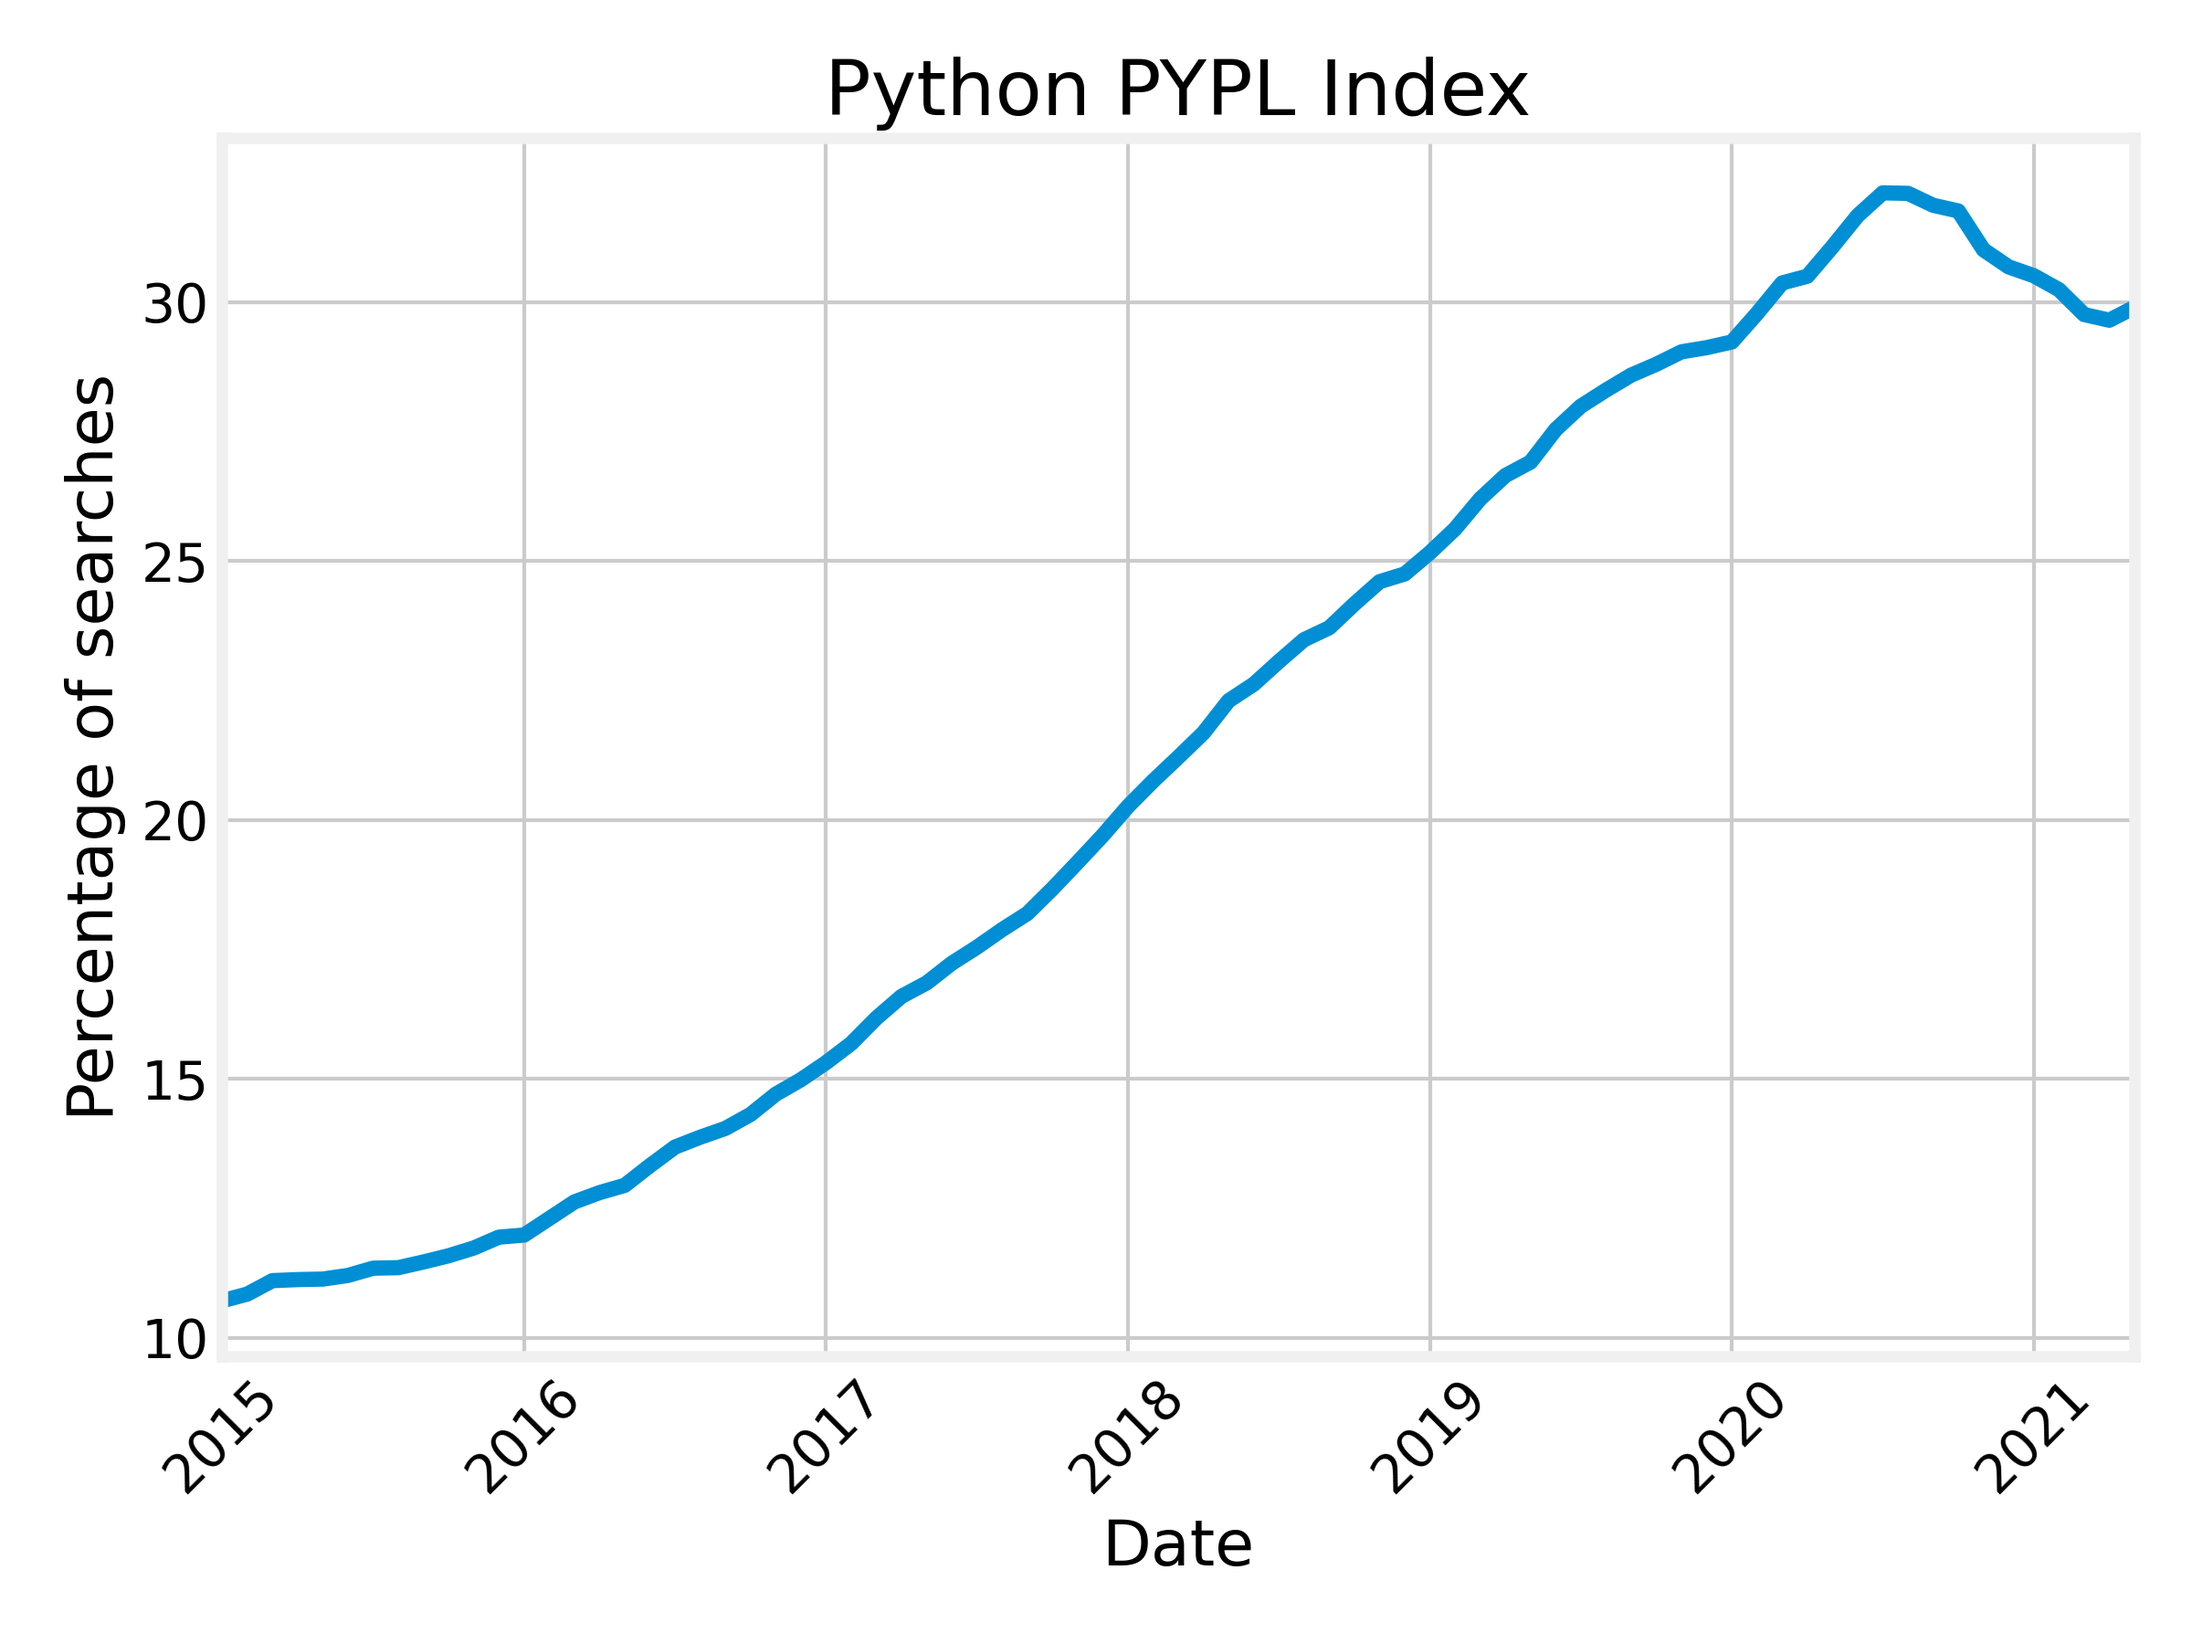
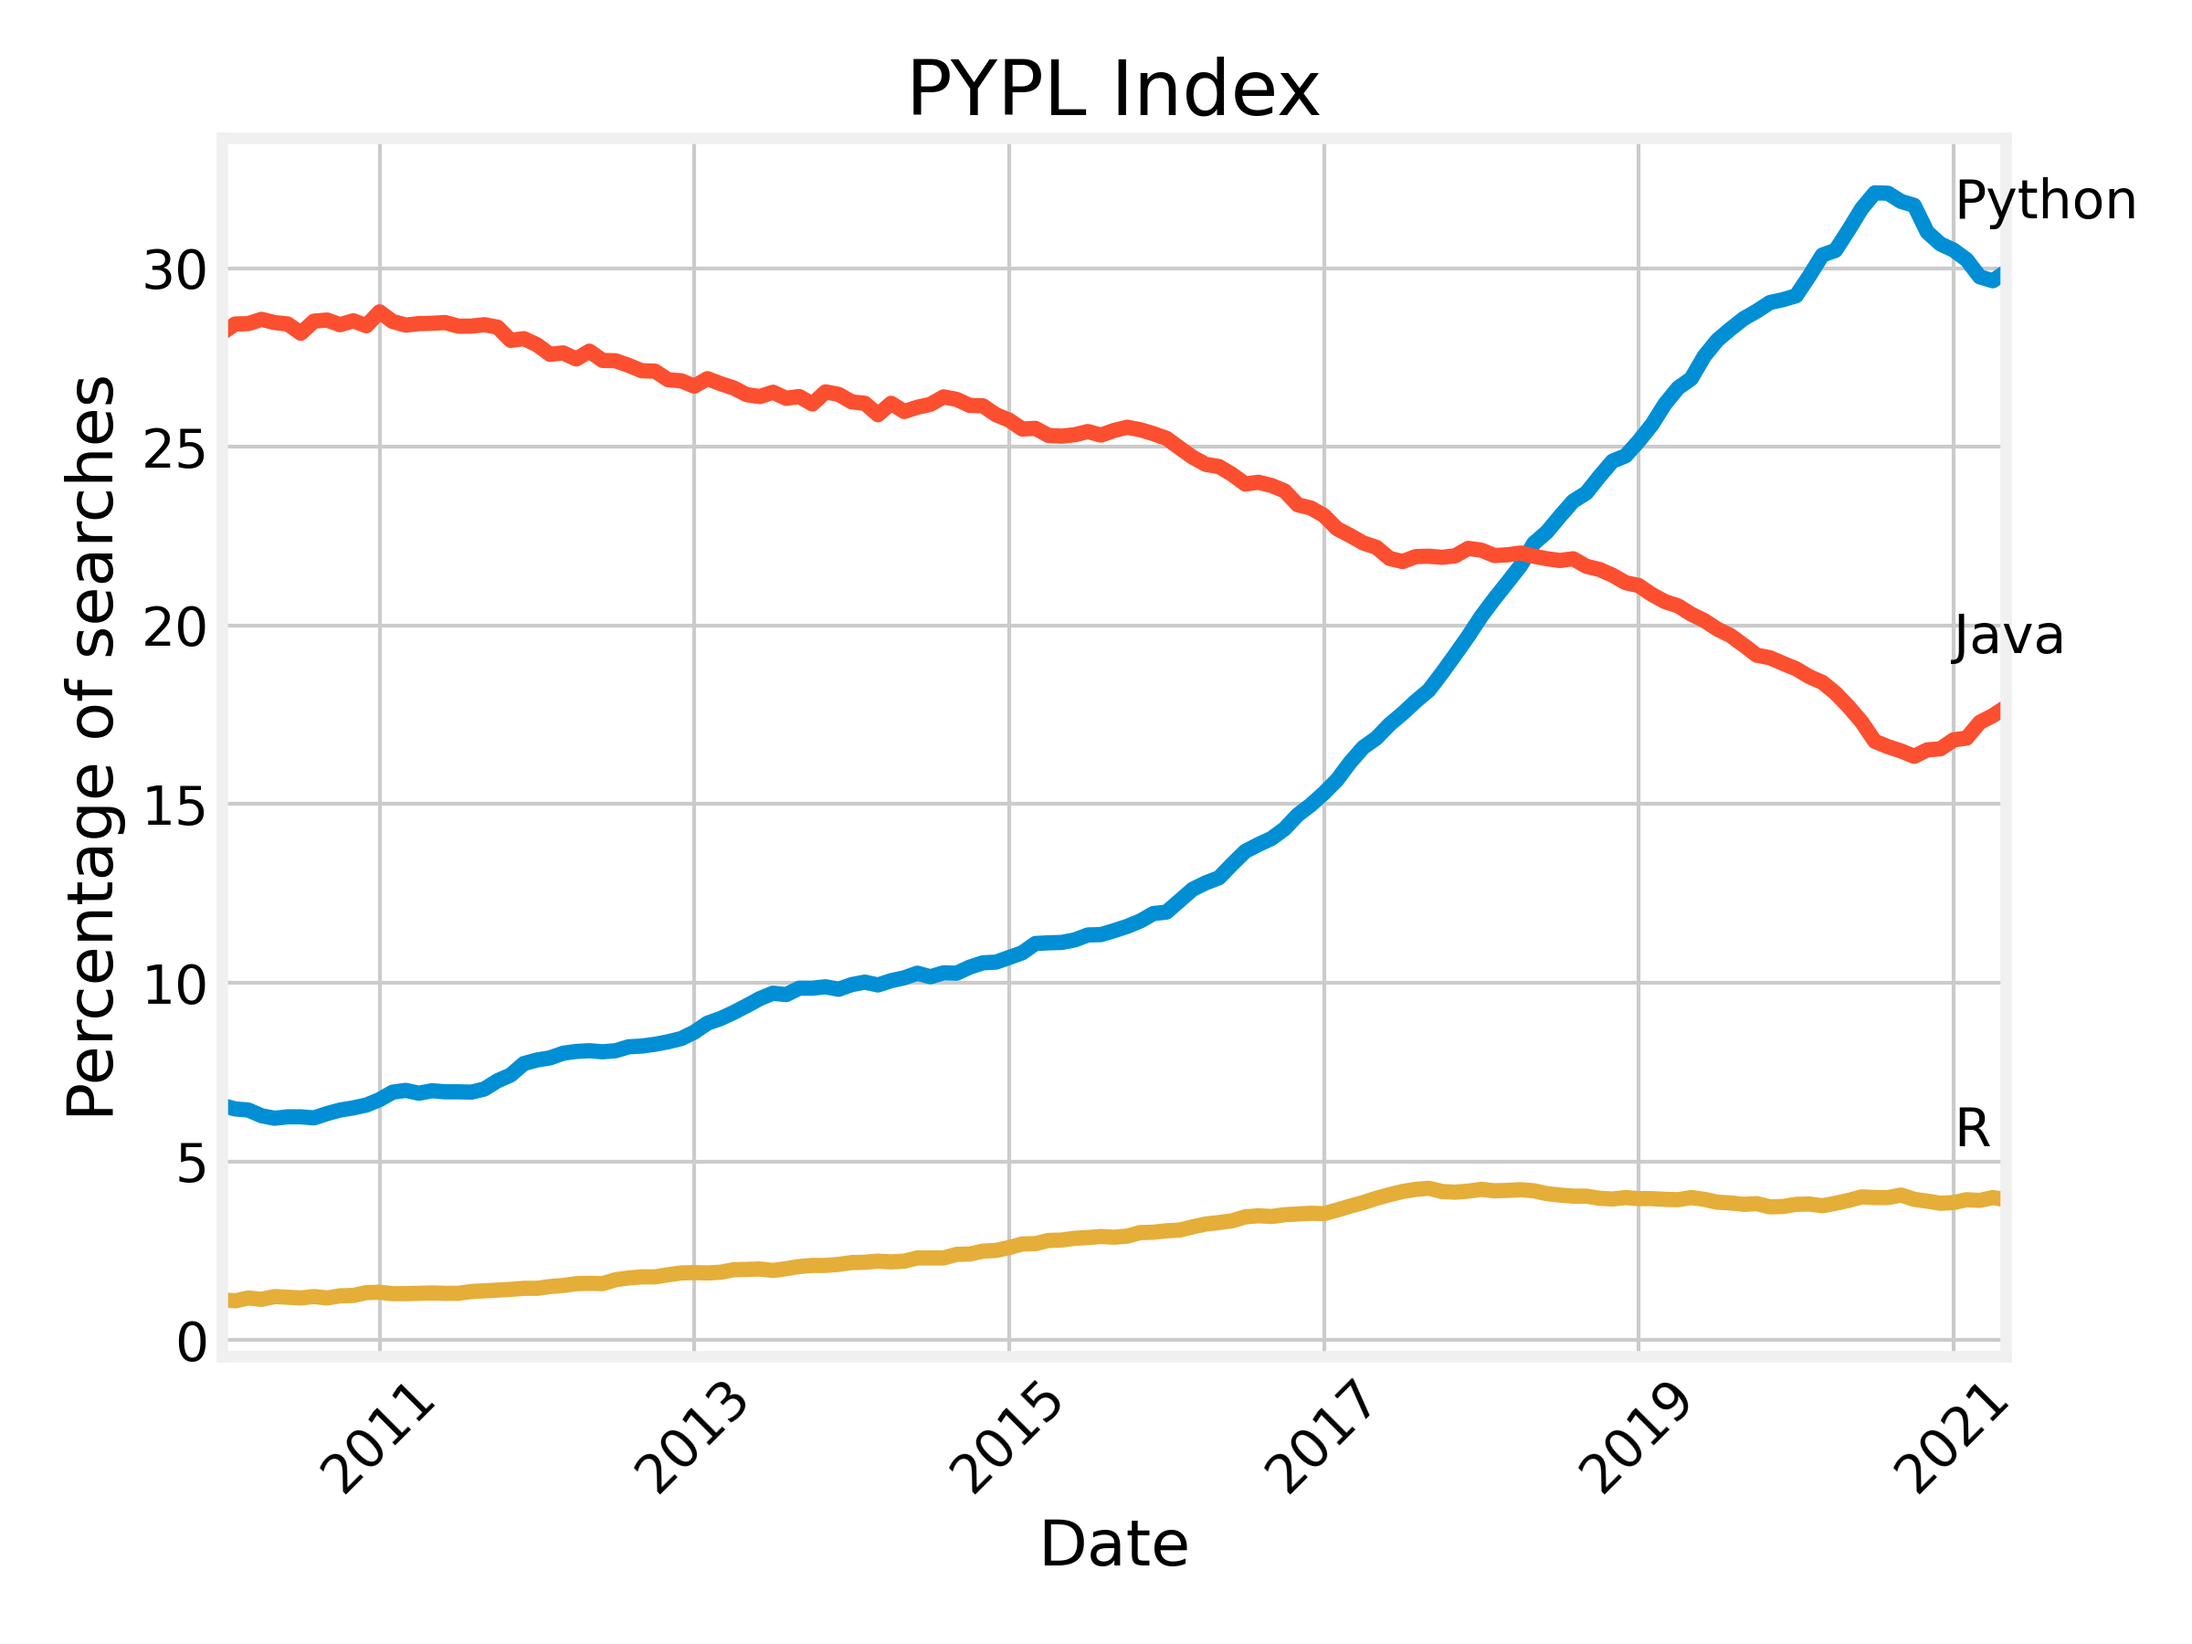
Updated plot annotations

diff --git a/src/1b_pypl.py b/src/1b_pypl.py
@@ -24,11 +24,22 @@ prog_pop = pd.read_csv(f"{DATA_DIR}/pl_pop.zip",
                        parse_dates=True,
                        index_col=0)
 
-ax = prog_pop.loc["2015":, "Python"].plot(title="Python PYPL Index", figsize=(8,6), rot=45)
+prog_pop.iloc[-1, :].sort_values(ascending=False)
+
+ax = prog_pop.loc["2010":, ["Python", "Java", "R"]].plot(title="PYPL Index", 
+                                                         figsize=(8,6), 
+                                                         rot=45,
+                                                         legend=False)
 ax.set_ylabel("Percentage of searches")
 
+py_loc = prog_pop.iloc[-1, :]["Python"]
+java_loc = prog_pop.iloc[-1, :]["Java"]
+r_loc = prog_pop.iloc[-1, :]["R"]
+ax.text("2021", py_loc+1.5, "Python")
+ax.text("2021", java_loc+1.5, "Java")
+ax.text("2021", r_loc+1.5, "R")
+
+# ax.text("2011-06-01", r_loc-15, "Repository created")
 
 plt.tight_layout()
 plt.savefig(f"{FIG_DIR}/PYPL_trend.png", dpi=300)
-
-

diff --git a/src/2_github_interest.py b/src/2_github_interest.py
@@ -23,7 +23,7 @@ yearly_count.loc[2010, "Count"] = 0.0
 yearly_count.loc[2011, "Count"] = 0.0
 yearly_count.sort_index(inplace=True)
 
-ax = yearly_count.loc[:2013].plot(legend=False, alpha=0.5, figsize=(8,6))
+ax = yearly_count.loc[:2013].plot(legend=False, alpha=0.0, figsize=(8,6))
 yearly_count.loc[2013:2020].plot(legend=False, color='C0', ax=ax, marker='o')
 yearly_count.loc[2020:].plot(ax=ax, color="C0", ls="-.", legend=False, rot=45, grid=True)
 
@@ -32,6 +32,12 @@ ax.set_xlabel("Year")
 ax.set_title("Cumulative Stars of Repository")
 
 ax.annotate("Repository created", xy=(2013, 1), xytext=(2010.1, 170),
+            arrowprops=dict(facecolor='black', shrink=0.05))
+
+ax.annotate("Release of v1.0", xy=(2016, 130), xytext=(2011.1, 235),
+            arrowprops=dict(facecolor='black', shrink=0.05))
+
+ax.annotate("Herman & Usher (2017)", xy=(2017, 190), xytext=(2012.1, 305),
             arrowprops=dict(facecolor='black', shrink=0.05))
 
 plt.tight_layout()

diff --git a/src/1_citation_trend.py b/src/1_citation_trend.py
@@ -27,7 +27,7 @@ pubs_per_year = citing_pubs.groupby(["Year"]).count()
 ax = pubs_per_year.loc[2017:2020].plot(legend=False, marker='o')
 (pubs_per_year.loc[2015:2017]
               .plot(ax=ax, color="C0",
-                    ls="-", legend=False, alpha=0.5, figsize=(8,6)))
+                    ls="-", legend=False, alpha=0.0, figsize=(8,6)))
 
 (pubs_per_year.loc[2020:]
               .plot(ax=ax, color="C0", 
